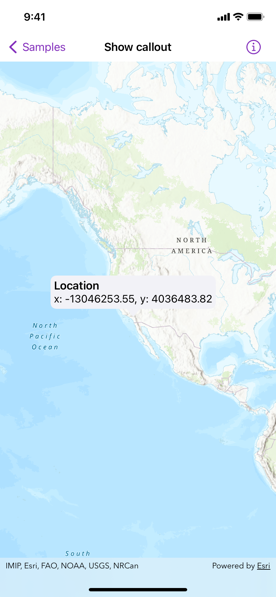
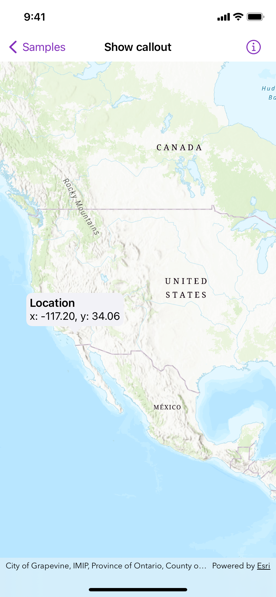
Use WGS 84

diff --git a/Shared/Samples/Show callout/ShowCalloutView.swift b/Shared/Samples/Show callout/ShowCalloutView.swift
@@ -25,11 +25,14 @@ struct ShowCalloutView: View {
     var body: some View {
         MapView(map: map)
             .onSingleTapGesture { _, mapPoint in
+                // Projects the point to WGS 84 spatial reference.
+                let location = GeometryEngine.project(mapPoint, into: .wgs84)!
+                
                 // Sets the callout placement location to the tap location
                 // if callout placement is nil.
                 // If not nil, sets the callout placement to nil.
                 calloutPlacement = calloutPlacement == nil ? LocationCalloutPlacement(
-                    location: mapPoint,
+                    location: location,
                     offset: .zero,
                     allowsOffsetRotation: false
                 ) : nil

diff --git a/Shared/Samples/Show callout/README.md b/Shared/Samples/Show callout/README.md
@@ -10,7 +10,7 @@ Callouts are used to display temporary detail content on a map. You can display 
 
 ## How to use the sample
 
-Tap anywhere on the map. A callout showing the WGS84 coordinates for the tapped point will appear.
+Tap anywhere on the map. A callout showing the WGS 84 coordinates for the tapped point will appear.
 
 ## How it works
 
